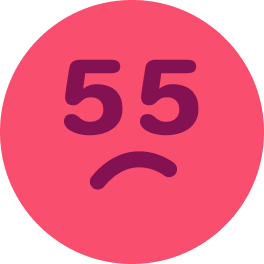
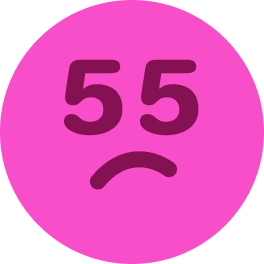
adapt background to danger level, ui color changes

diff --git a/render.js b/render.js
@@ -6,14 +6,30 @@ function renderSceneToCanvas(ctx) {
     ctx.textAlign = "center";
     ctx.lineCap = "round";
 
+    const distanceFromLosingPercent = (tickWhereTopLastReached !== null)
+        ? 1 - ((currentTick - tickWhereTopLastReached) / TICKS_UNTIL_LOST)
+        : 1;
+    const visualDistanceFromLosingPercent = (distanceFromLosingPercent < 0.7)
+        ? distanceFromLosingPercent
+        : 1;
+
     // background
     ctx.drawImage(ctxSprites.bg, 0, 0);
+    if (lostGame) {
+        ctx.globalAlpha = 0;
+    } else if (visualDistanceFromLosingPercent < 1) {
+        ctx.globalAlpha = visualDistanceFromLosingPercent;
+    }
+    ctx.drawImage(ctxSprites.bgUpper, 0, 0);
+    ctx.globalAlpha = 1;
+
+    // 
 
     // line to indicate where you next drop
     if (!lostGame && compDrops.bodies[0].bounds.max.y >= DROP_HEIGHT-DROP_BARRIER - 0.5) { 
         let gradient = ctx.createLinearGradient(0, DROP_HEIGHT, 0, PLAY_AREA_HEIGHT);
-        gradient.addColorStop(0, '#f78d8d10');
-        gradient.addColorStop(1, '#f78d8d20');
+        gradient.addColorStop(0, 'rgba(255, 255, 255, 0.05');//'#f78d8d10');
+        gradient.addColorStop(1, 'rgba(255, 255, 255, 0.1');//'#f78d8d20');
         ctx.fillStyle = gradient;
         const dropRadius = compDrops.bodies[0].circleRadius ?? 14;
         ctx.fillRect(stackX -dropRadius, DROP_HEIGHT, dropRadius * 2, PLAY_AREA_HEIGHT);
@@ -21,8 +37,8 @@ function renderSceneToCanvas(ctx) {
 
     // indicate dropping platform and rising losing gradient
     if (!lostGame) {
-        if (tickWhereTopLastReached !== null) {
-            const intensity = (currentTick - tickWhereTopLastReached) / TICKS_UNTIL_LOST;
+        if (visualDistanceFromLosingPercent < 1) {
+            const intensity = 1 - visualDistanceFromLosingPercent;
             const blinkRed = Math.sin(currentTick / 4)/2 + 0.5;
             ctx.fillStyle = `rgba(255, 255, 255, ${blinkRed * intensity})`;;
             // ctx.fillRect(0, DROP_HEIGHT-DROP_BARRIER, PLAY_AREA_WIDTH, DROP_BARRIER);
@@ -33,7 +49,7 @@ function renderSceneToCanvas(ctx) {
         // ctx.fillRect(0, DROP_HEIGHT-4, PLAY_AREA_WIDTH, 4);
 
         if (compDrops.bodies[0].bounds.max.y >= DROP_HEIGHT-DROP_BARRIER - 0.5) {
-            ctx.fillStyle = '#f78d8d';
+            ctx.fillStyle = 'rgba(255, 255, 255, 0.2' //'#f78d8d';
             const dropRadius = compDrops.bodies[0].circleRadius ?? PLAY_AREA_WIDTH;
             const dropPos = compDrops.bodies[0].position.x - dropRadius ?? 0;
             ctx.fillRect(dropPos, DROP_HEIGHT-DROP_BARRIER, dropRadius*2, 10);

diff --git a/game.js b/game.js
@@ -83,6 +83,8 @@ mainCanvas.height = PLAY_AREA_HEIGHT + DROP_HEIGHT;
 const ctxSprites = {};
 ctxSprites.bg = new Image();
     ctxSprites.bg.src = './assets/img/bg.png';
+ctxSprites.bgUpper = new Image();
+    ctxSprites.bgUpper.src = './assets/img/bg_upper.png';
 ctxSprites.sphere = Array.from({ length: 11 }, (_, index) => {
     const img = new Image();
     img.src = `./assets/img/ball${index + 1}.png`;
@@ -171,7 +173,9 @@ Events.on(engine, 'beforeUpdate', (event) => {
     currentTick += 1;
 });
 
-Events.on(engine, 'afterUpdate', (event) => { renderSceneToCanvas(mainCtx) });
+Events.on(engine, 'afterUpdate', (event) => { 
+    renderSceneToCanvas(mainCtx) 
+});
 
 Events.on(engine, 'collisionStart', (event) => {
     event.pairs.forEach((pair) => {
@@ -280,7 +284,7 @@ function sceneSetup() {
 
 function endGame() {
     if (!lostGame) {
-        document.getElementById('score-text').style.color = '#c5cddb';
+        document.getElementById('score-text').style.color = '#f78d8d';
         lostGame = true;
         dropScheduled = true;
     }

diff --git a/styles.css b/styles.css
@@ -45,7 +45,7 @@ body {
     transform: translateX(-50%);
     text-align: center;
     font-size: 5vh;
-    color: #f78d8d;
+    color: #c5cddb;
     font-weight: 500;
     user-select: none;
    -webkit-user-select: none;
@@ -58,7 +58,7 @@ body {
     transform: translateX(-50%);
     text-align: center;
     font-size: 2vh;
-    color: #f94e6d;
+    color: #8B97B6;
     font-weight: 500;
     user-select: none;
    -webkit-user-select: none;
@@ -69,7 +69,7 @@ body {
     top: 15px;
     left: 20px;
     font-size: 2.5vh;
-    color: #f94e6d;
+    color: #f78d8d;
     font-weight: 500;
     user-select: none;
    -webkit-user-select: none;
@@ -77,11 +77,11 @@ body {
 
 #seed {
     position: absolute;
-    bottom: 1vh;
+    bottom: 0.9vh;
     right: 20px;
     font-size: 1.6vh;
     font-weight: 500;
-    color: #c12458;
+    color: #8B97B6;
     text-align: right;
     user-select: none;
    -webkit-user-select: none;

diff --git a/index.html b/index.html
@@ -17,7 +17,7 @@
     <script src="render.js"></script>
 
     <div id="score-text">0</div>
-    <div id="combo-text">DROP, MERGE, SCORE!</div>
+    <div id="combo-text">Merge same size & score</div>
 
     <div id="game-title">Make 10!</div>
 </body>
